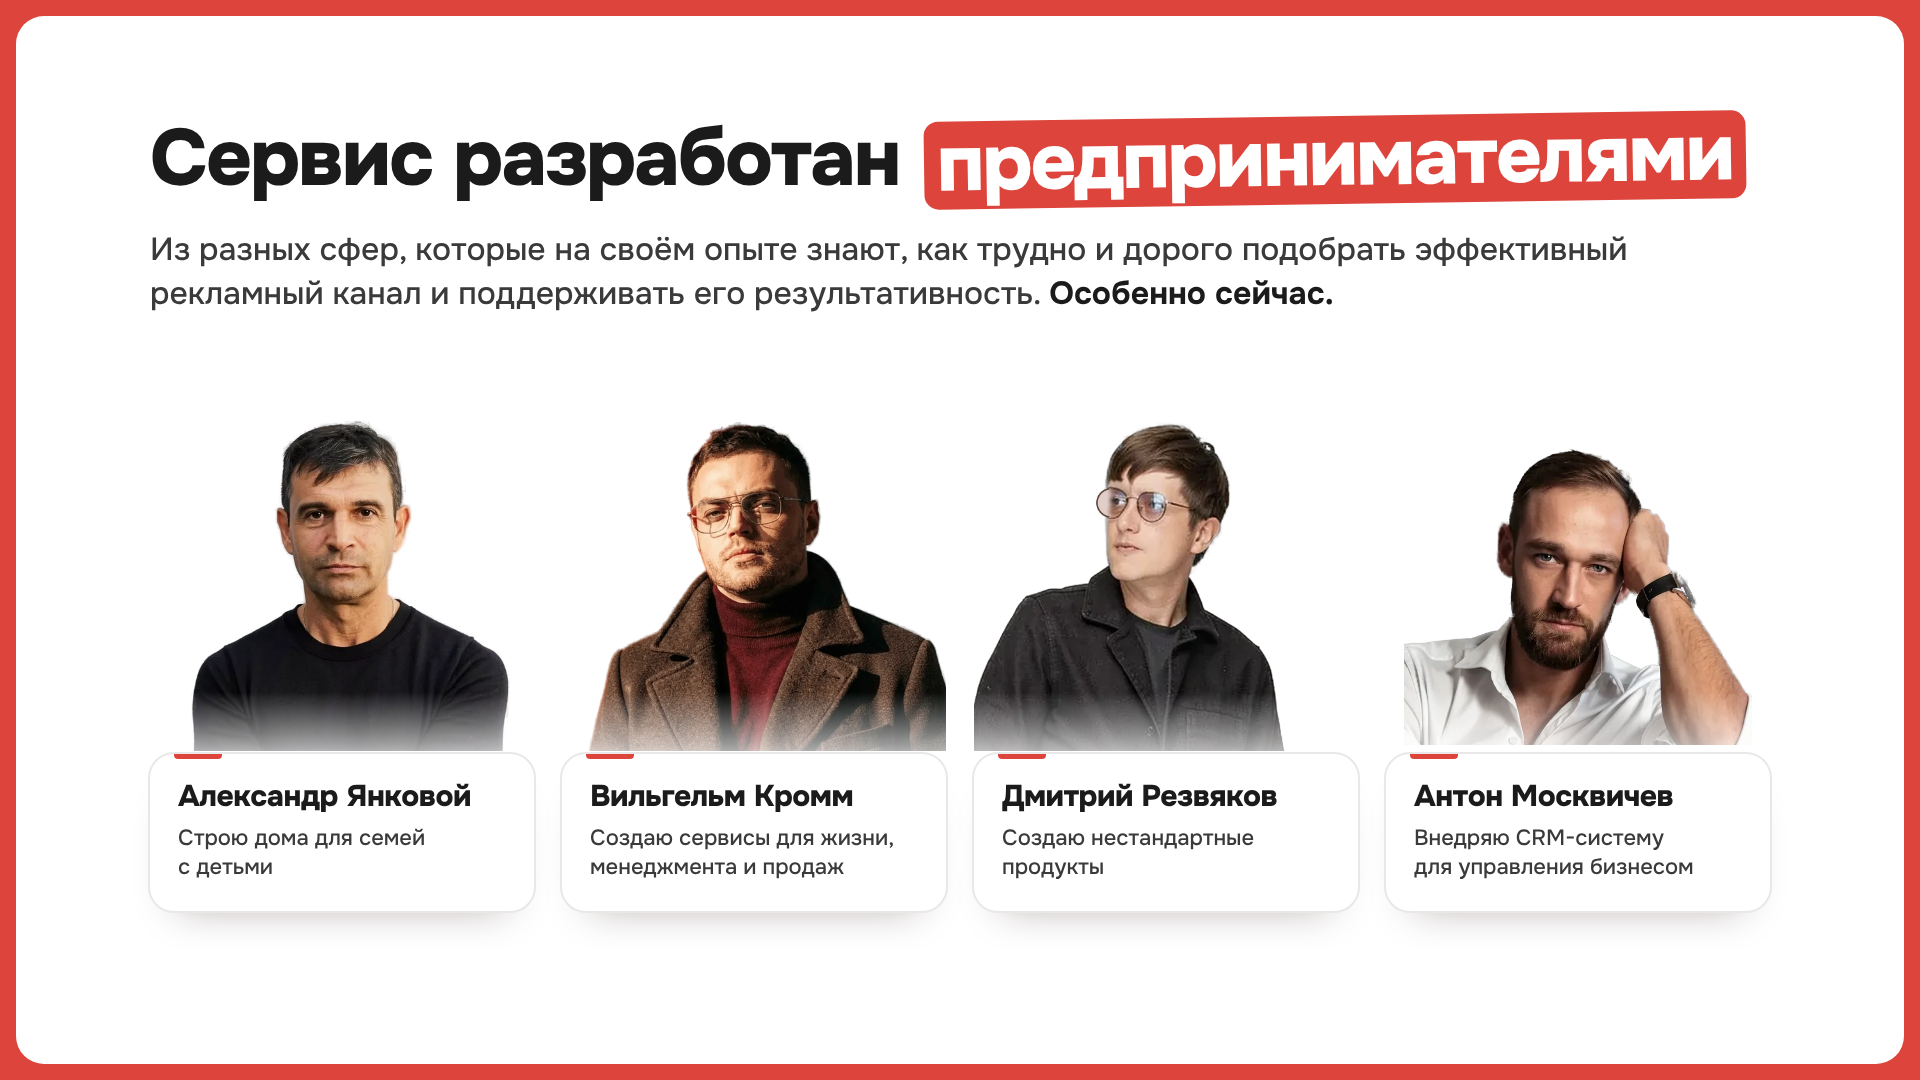
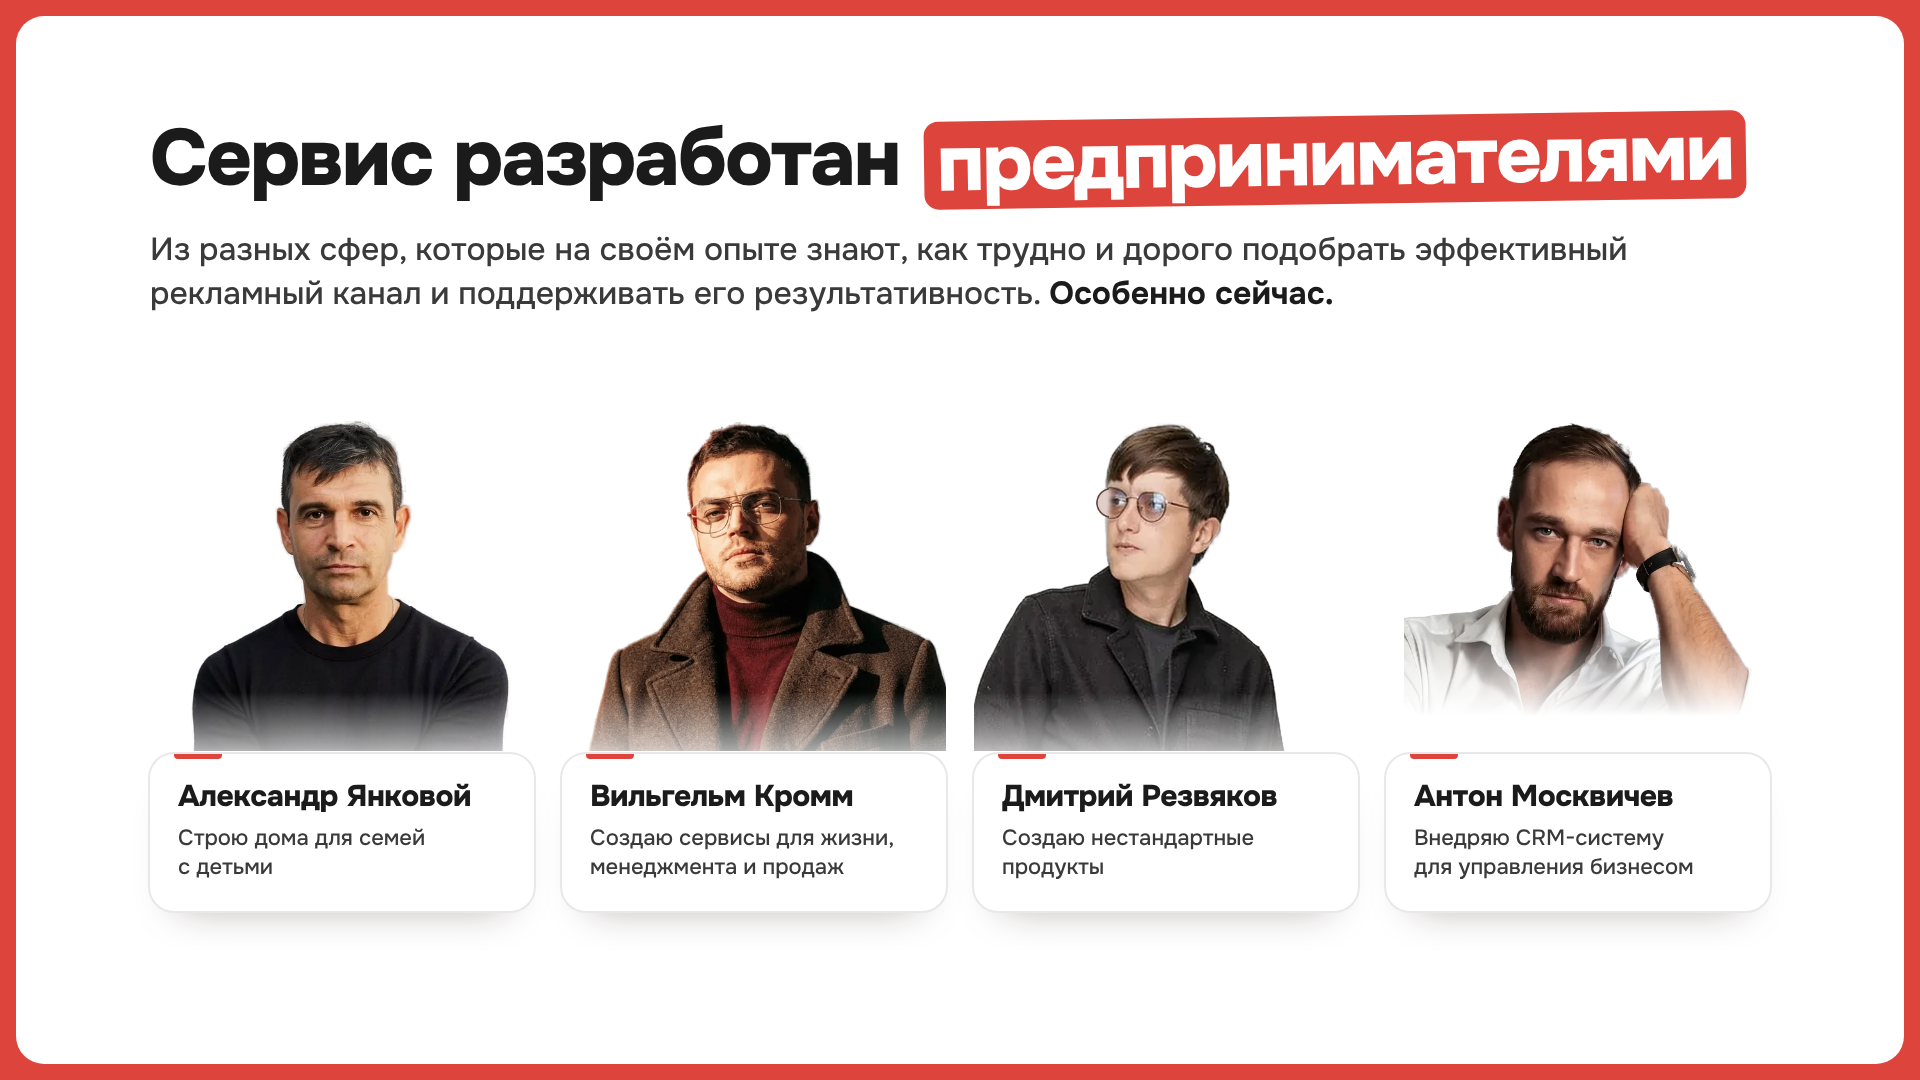
Презентация v3, команда: Москвичев поднят — головы на одной линии, низ фото растушёван
Claude-Session: https://claude.ai/code/session_016TTUbKi4K5ZASpfJrwsQiN

Changed region(s): [[0.7188, 0.3972, 0.9375, 0.7028]]

diff --git a/social-kit/deck-v3.html b/social-kit/deck-v3.html
@@ -337,7 +337,7 @@ a{color:inherit;text-decoration:none}
 .mate__ph--todo{display:grid;place-items:end center;background:linear-gradient(#F3F3F3,#F3F3F3) center 40px/240px 252px no-repeat;border-radius:120px 120px 0 0;color:#D3D3D3}
 .mate__ph--todo svg{width:200px;height:200px;margin-bottom:20px}
 /* Москвичев снят крупнее остальных — отдаляем, чтобы лица были одного размера */
-.mate__ph--far{background-size:auto 84%;background-position:center 45%}
+.mate__ph--far{background-size:auto 84%;background-position:center 5%;-webkit-mask-image:linear-gradient(#000 64%,transparent 84%);mask-image:linear-gradient(#000 64%,transparent 84%)}
 .mate__ph--pk{background-size:70%;background-position:center 40%}
 .mate__c{position:relative;margin-top:-26px;flex:1;padding:26px 28px 28px;border-radius:24px;background:#fff;box-shadow:0 0 0 2px var(--line),0 24px 40px -28px rgba(40,10,8,.35)}
 .mate__c::before{content:"";position:absolute;left:24px;top:0;width:48px;height:5px;border-radius:0 0 4px 4px;background:var(--brand)}
